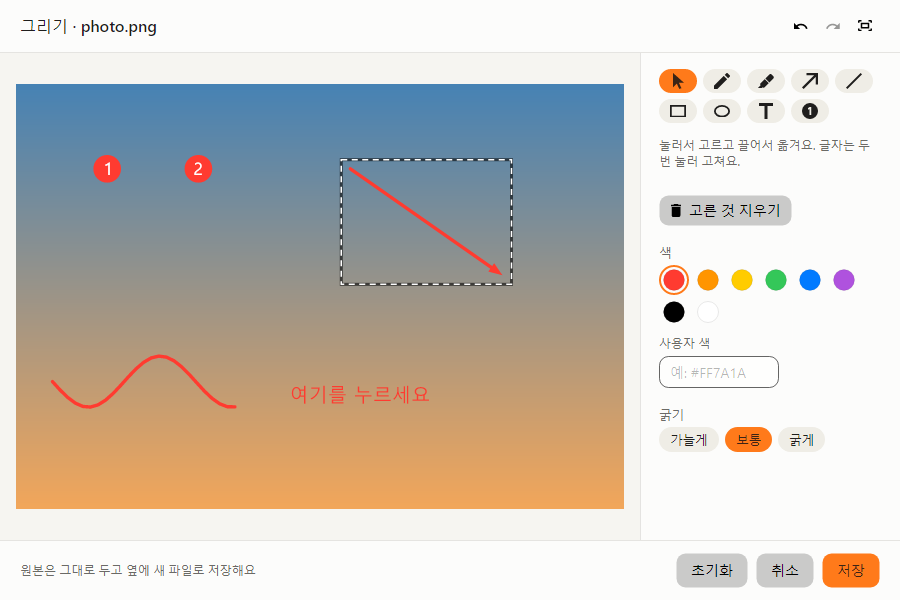
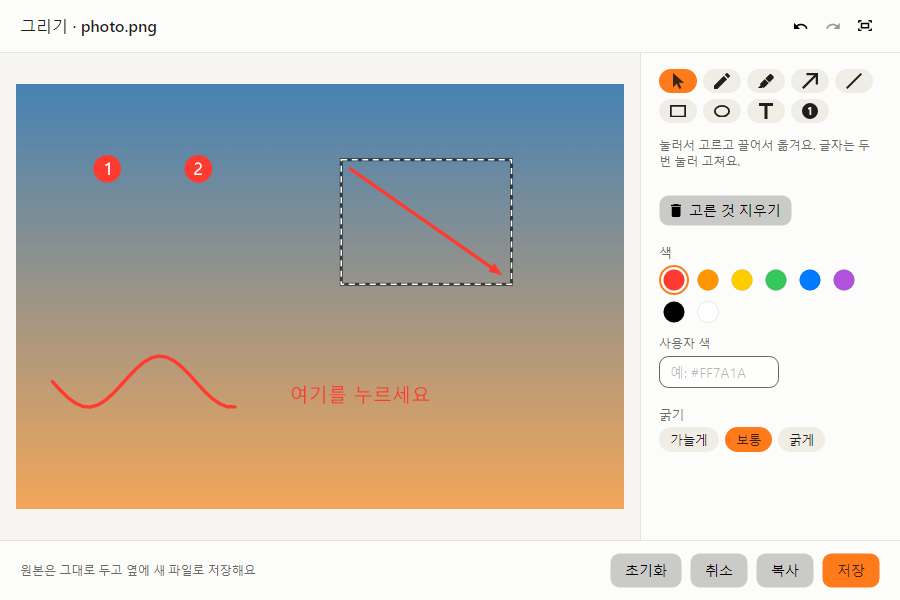
chore: Bingling 1.2.0, with a portable ZIP
Copy in the editing windows, and Bingling-1.2.0-win-Portable.zip next to Setup. The user guide and the READMEs say how
to use, update and remove the portable copy; the guide's editor pictures show the Copy button.

Claude-Session: https://claude.ai/code/session_01TH3SQt2yp4pJo7yb993NAD

Changed region(s): [[0.6533, 0.9, 0.8089, 0.99], [0.84, 0.93, 0.9022, 0.96]]

diff --git a/docs/manual/ko.md b/docs/manual/ko.md
@@ -63,6 +63,25 @@ Windows 10과 11에서 써요.
 설치가 끝나면 빙글링은 작업 표시줄 알림 영역(트레이)에서 실행돼요.
 업데이트할 때는 엔진을 다시 묻지 않아요. 설정과 엔진은 그대로 남아요.
 
+### 설치 없이 쓰기(포터블)
+
+설치 프로그램을 실행할 수 없거나 설치하고 싶지 않다면 포터블 ZIP을 써요. 관리자 권한이 필요 없어요.
+
+1. [릴리스 페이지](https://github.com/likyu-room/bingling/releases/latest)에서 `Bingling-<버전>-win-Portable.zip`을 받아요.
+2. 계속 둘 폴더에 압축을 풀어요(예: `문서\빙글링`).
+3. 폴더 안의 `Bingling.exe`를 실행해요. “Windows의 PC 보호” 창이 뜨면 **추가 정보** → **실행**을 눌러요.
+
+- 링, 사진 도구, 변환, 알림 카드, 엔진 받기는 설치판과 똑같아요.
+- 처음 켜면 “로그인할 때 빙글링 시작”과 탐색기 우클릭 메뉴가 내 계정에 등록돼요. 우클릭 메뉴는 Windows 11에서 “추가 옵션 표시” 안에 나와요.
+- 설정은 설치판과 같은 곳(`%APPDATA%\Bingling`)에 저장돼요. USB에 넣어 다른 PC로 들고 다니는 용도는 아니에요.
+
+**업데이트**: 새 버전이 나오면 카드에 **다운로드** 단추가 떠요. 누르면 릴리스 페이지가 열려요.
+트레이 아이콘을 오른쪽 클릭해서 **종료**한 다음, 새 ZIP을 같은 폴더에 덮어 풀면 돼요. 설정과 엔진은 그대로예요.
+
+**그만 쓸 때**: **설정 → 일반**에서 “로그인할 때 빙글링 시작”과 “탐색기 우클릭 메뉴에 ‘빙글링으로 변환’ 표시”를 끄고,
+트레이에서 **종료**한 뒤 폴더를 지워요.
+받은 엔진까지 지우려면 `%LocalAppData%\Bingling` 폴더도 지워요.
+
 ## 기본 사용법
 
 ### 끌어서 링 열기
@@ -433,7 +452,8 @@ Windows 10과 11에서 써요.
 
 **회사 PC에서 설치하려니 관리자 계정을 물어봐요.**
 설치 프로그램의 첫 창에서 **현재 사용자용으로만 설치**를 고르세요. 관리자 권한 없이 내 계정에만 설치돼요.
-회사가 서명 없는 프로그램의 실행 자체를 막아 두었다면 이 방법으로도 설치되지 않아요. 이때는 회사 IT 담당자에게 문의하세요.
+설치 프로그램 자체가 막혀 있다면 [포터블 ZIP](#설치-없이-쓰기포터블)을 풀어서 써 보세요.
+회사가 서명 없는 프로그램의 실행 자체를 막아 두었다면 이 방법들로도 실행되지 않아요. 이때는 회사 IT 담당자에게 문의하세요.
 
 **업데이트는 어떻게 하나요?**
 새 버전이 나오면 빙글링이 “빙글링 1.2.0 버전이 나왔어요” 같은 카드로 알려 줘요. **업데이트**를 누르면 새 버전을 받아서 설치해요.

diff --git a/docs/manual/en.md b/docs/manual/en.md
@@ -64,6 +64,27 @@ Bingling runs on Windows 10 and 11.
 After Setup, Bingling runs in the notification area of the taskbar (the tray).
 Updates don't ask about engines again. Your settings and engines stay.
 
+### Without installing (portable)
+
+If you can't run Setup or would rather not install, use the portable ZIP. It needs no administrator rights.
+
+1. Download `Bingling-<version>-win-Portable.zip` from the [releases page](https://github.com/likyu-room/bingling/releases/latest).
+2. Unpack it into a folder you will keep (for example `Documents\Bingling`).
+3. Run `Bingling.exe` in that folder. If “Windows protected your PC” appears, choose **More info**, then **Run anyway**.
+
+- The ring, the picture tools, conversions, the result card and engine downloads work as in the installed copy.
+- On its first start it registers “Start Bingling when I sign in” and the Explorer context menu for your account. On
+  Windows 11 the menu entry is under “Show more options”.
+- Settings are kept in the same place as the installed copy's (`%APPDATA%\Bingling`). It is not meant to be carried to
+  other PCs on a USB stick.
+
+**Updating**: when a new version is out, its card has a **Download** button that opens the releases page. Right-click
+the tray icon, choose **Quit**, then unpack the new ZIP over the same folder. Your settings and engines stay.
+
+**Removing it**: in **Settings → General**, turn off “Start Bingling when I sign in” and “Show ‘Convert with Bingling’ in
+the Explorer context menu”, choose **Quit** in the tray, then delete the folder. To delete the downloaded engines as
+well, delete the `%LocalAppData%\Bingling` folder too.
+
 ## Basic use
 
 ### Open the ring by dragging
@@ -435,7 +456,8 @@ Install it in **Settings → Engines**. DOCX, XLSX, PPTX and HWP convert without
 
 **Setup asks for an administrator on my work PC.**
 Choose **Install for me only** in Setup's first window. Bingling then installs for your account without administrator rights.
-If your company blocks unsigned programs from running at all, this doesn't help either. Ask your IT department.
+If Setup itself is blocked, unpack the [portable ZIP](#without-installing-portable) and use that.
+If your company blocks unsigned programs from running at all, none of this helps. Ask your IT department.
 
 **How do I update?**
 When a new version is out, Bingling shows a card such as “Bingling 1.2.0 is available”. Click **Update** and it downloads and installs the new version.

diff --git a/README.ko.md b/README.ko.md
@@ -36,6 +36,8 @@
   - 그리기: 펜, 형광펜, 화살표, 도형, 글자, 번호
   - 압축
   - 사진 정보 지우기
+
+  편집 창에서 **복사**(<kbd>Ctrl</kbd>+<kbd>C</kbd>)를 누르면 파일을 만들지 않고 결과를 바로 붙여 넣을 수 있어요.
 - **피치 글래스 테마**: 은은하게 비치는 유리 느낌의 테마예요. 밝은 모드와 어두운 모드가 있어요.
 - **알림 카드**: 변환이 끝나면 카드가 떠요. “복사”를 누르면 결과를 대화창이나 문서에 붙여 넣을 수 있고, 사진을 누르면 결과가 열려요.
 - **여섯 가지 언어**: 한국어, English, 简体中文, Español, Polski, हिन्दी
@@ -53,6 +55,9 @@ Windows 10/11용이에요.
 
 새 버전이 나오면 알려 주고, 설정과 엔진은 그대로 둔 채 업데이트돼요.
 이전 이름인 Filee Plus 1.1.0을 쓰고 있다면 빙글링을 설치하세요. 설치 프로그램이 Filee Plus를 지우고, 설정과 내려받은 엔진은 빙글링으로 옮겨요.
+
+**설치 없이 쓰기(포터블)**: `Bingling-<버전>-win-Portable.zip`을 받아 원하는 폴더에 풀고 `Bingling.exe`를 실행해요.
+업데이트는 새 ZIP을 같은 폴더에 덮어 풀면 돼요. 자세한 건 [사용 설명서](docs/manual/ko.md#설치-없이-쓰기포터블)에 있어요.
 
 ## 명령줄
 

diff --git a/CHANGELOG.md b/CHANGELOG.md
@@ -20,7 +20,9 @@ without lines shows the English ones):
 <!-- update
 level: optional
 ko: 사진 편집 창에서 파일을 만들지 않고 바로 복사할 수 있어요 (Ctrl+C)
+ko: 설치 없이 쓰는 포터블 ZIP도 받을 수 있어요
 en: Copy from the picture editing windows without making a file (Ctrl+C)
+en: A portable ZIP to use Bingling without installing it
 -->
 
 - **Copy from the editing windows**: Crop, Add background, Redact and Annotate have a **Copy** button next to Save
@@ -28,6 +30,8 @@ en: Copy from the picture editing windows without making a file (Ctrl+C)
   writing a file, ready to paste into a chat or a document, and the window closes. With several pictures, it copies the
   one shown and the window stays open for the next. **Settings → General → Image tools → "Close the editing window
   after Copy"** keeps it open after one picture too, to edit more or save a file as well.
+- **Portable ZIP**: `Bingling-1.2.0-win-Portable.zip` runs without installing: unpack it into a folder you keep and
+  run `Bingling.exe`. To update, unpack the new ZIP over it. See the user guide for what differs from Setup.
 
 ## 1.1.1
 

diff --git a/README.md b/README.md
@@ -37,6 +37,8 @@ window, watch folders and the [command line](#command-line).
   - Annotate: pen, highlighter, arrow, shapes, text and numbers
   - Compress
   - Strip metadata
+
+  **Copy** (<kbd>Ctrl</kbd>+<kbd>C</kbd>) in an editing window puts the result on the clipboard without making a file.
 - **Peach Glass theme**: a soft, see-through glass look, in a light and a dark mode.
 - **Result card**: when a conversion finishes a card appears. "Copy" puts the result on the clipboard so you can paste it
   into a chat or a document, and clicking the picture opens the result.
@@ -58,6 +60,9 @@ For Windows 10 and 11.
 Bingling tells you when a new version is out and updates while keeping your settings and engines.
 If you use 1.1.0 under its former name, Filee Plus, just install Bingling: Setup removes Filee Plus and moves its
 settings and downloaded engines over.
+
+**Without installing (portable)**: download `Bingling-<version>-win-Portable.zip`, unpack it into any folder and run
+`Bingling.exe`. To update, unpack the new ZIP over the same folder. See the [user guide](docs/manual/en.md#without-installing-portable).
 
 ## Command line
 

diff --git a/README.zh-CN.md b/README.zh-CN.md
@@ -36,6 +36,8 @@
   - 标注：画笔、荧光笔、箭头、形状、文字、编号
   - 压缩
   - 清除元数据
+
+  在编辑窗口中按**复制**（<kbd>Ctrl</kbd>+<kbd>C</kbd>），不生成文件就能直接粘贴结果。
 - **蜜桃玻璃主题**：柔和通透的玻璃质感，有浅色和深色两种模式。
 - **结果卡片**：转换完成后会弹出卡片。点“复制”可以把结果粘贴到聊天或文档里，点图片则打开结果。
 - **六种语言**：简体中文、English、한국어、Español、Polski、हिन्दी
@@ -53,6 +55,9 @@
 
 有新版本时 Bingling 会提示，更新时保留设置和引擎。
 如果你在用旧名称 Filee Plus 的 1.1.0，直接安装 Bingling 即可：安装程序会卸载 Filee Plus，并把设置和已下载的引擎转移过来。
+
+**免安装（便携版）**：下载 `Bingling-<版本>-win-Portable.zip`，解压到任意文件夹，运行 `Bingling.exe`。
+更新时把新的 ZIP 解压覆盖到同一文件夹即可。
 
 ## 命令行
 
